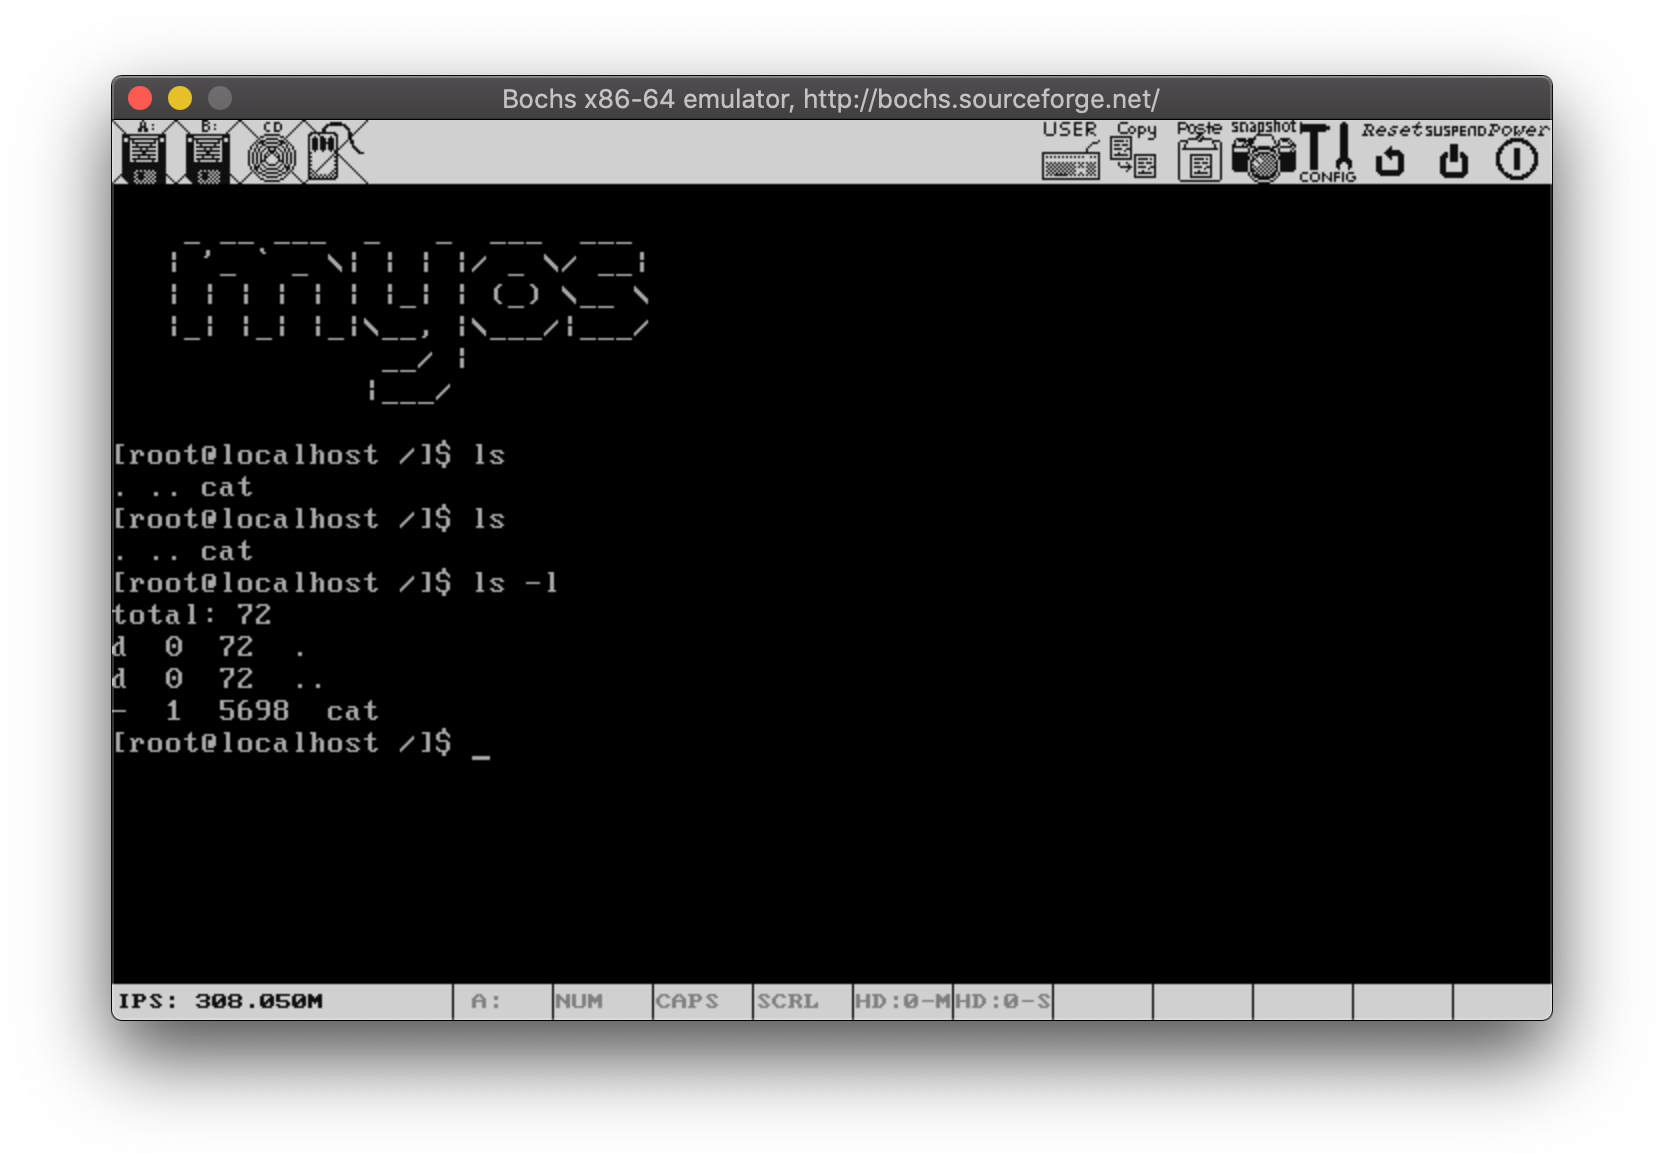
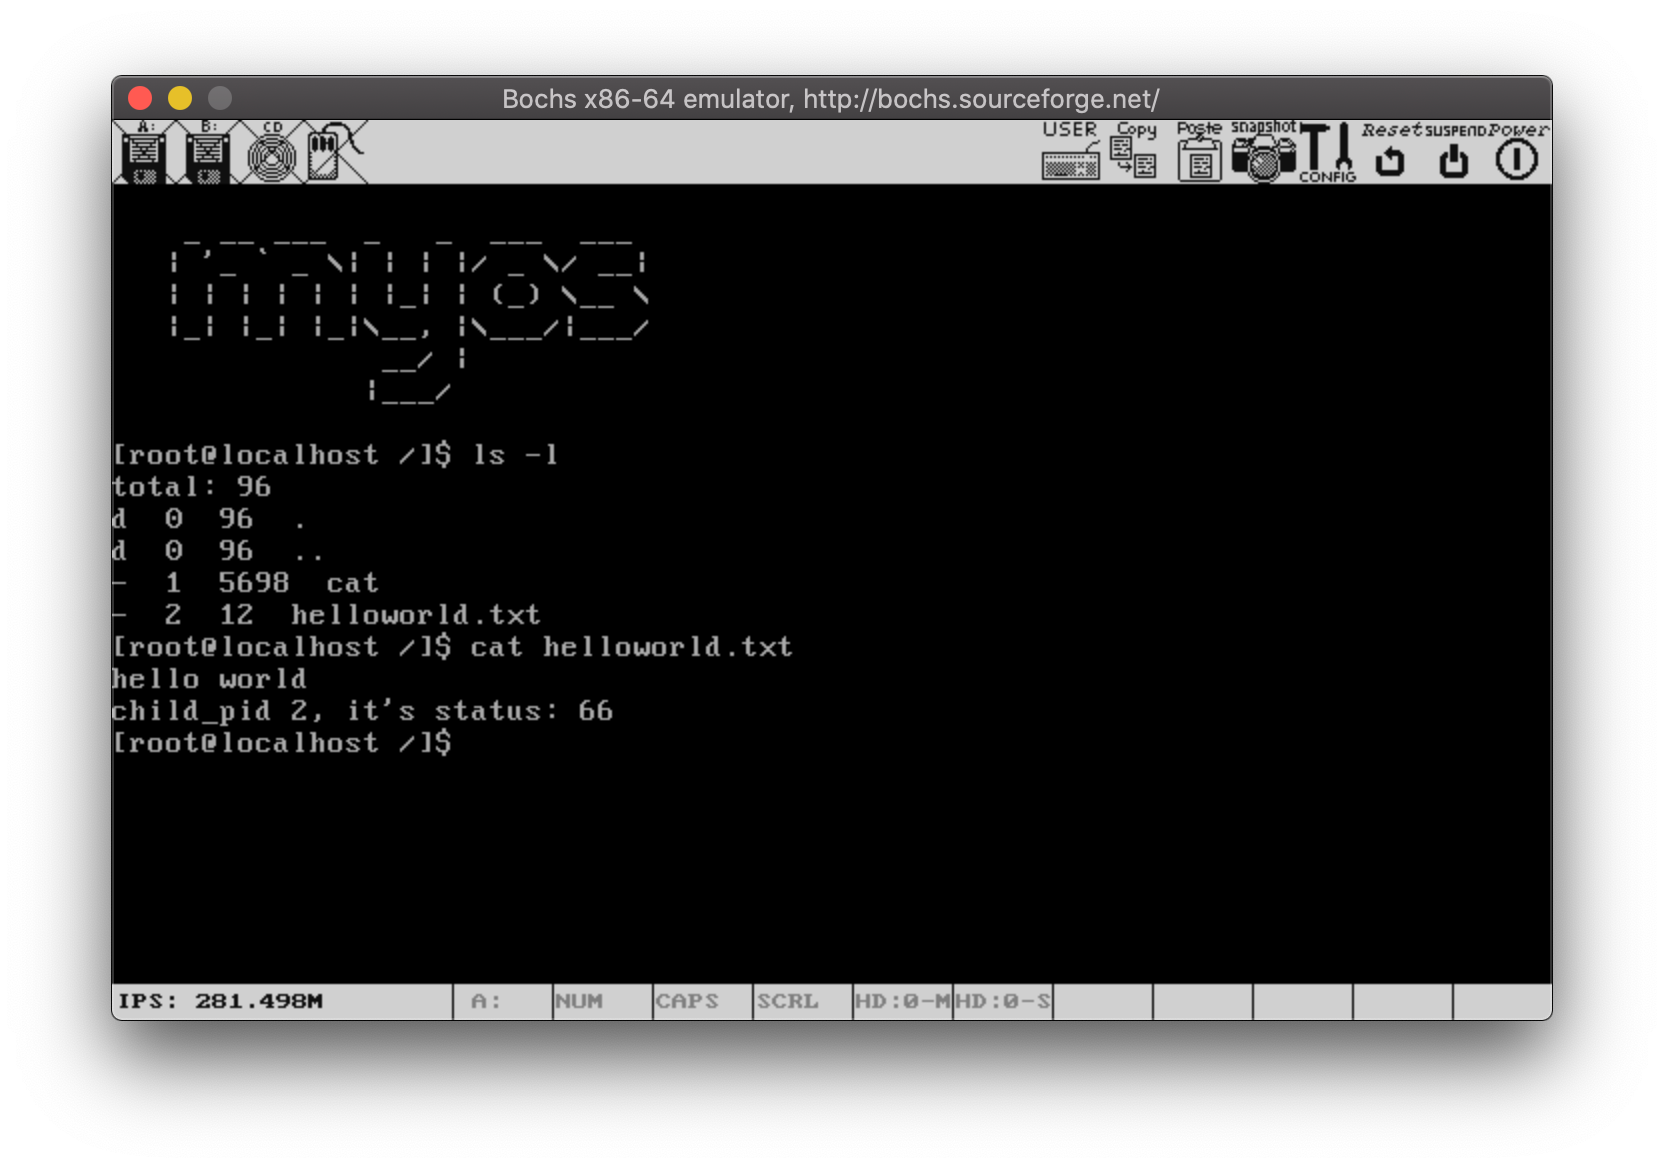
update sceenshot

Changed region(s): [[0.0625, 0.4007, 0.4688, 0.6164], [0.125, 0.8322, 0.1875, 0.863], [0.3125, 0.3699, 0.3438, 0.4007]]

diff --git a/kernel/main.c b/kernel/main.c
@@ -35,6 +35,10 @@ int main(void) {
         while(1);
      }
   }
+  sys_close(fd);
+  fd = sys_open("/helloworld.txt", O_CREAT|O_RDWR);
+  sys_write(fd, "hello world\n", 12);
+  sys_close(fd);
   sys_free(prog_buf);
 /*************    写入应用程序结束   *************/
    cls_screen();
